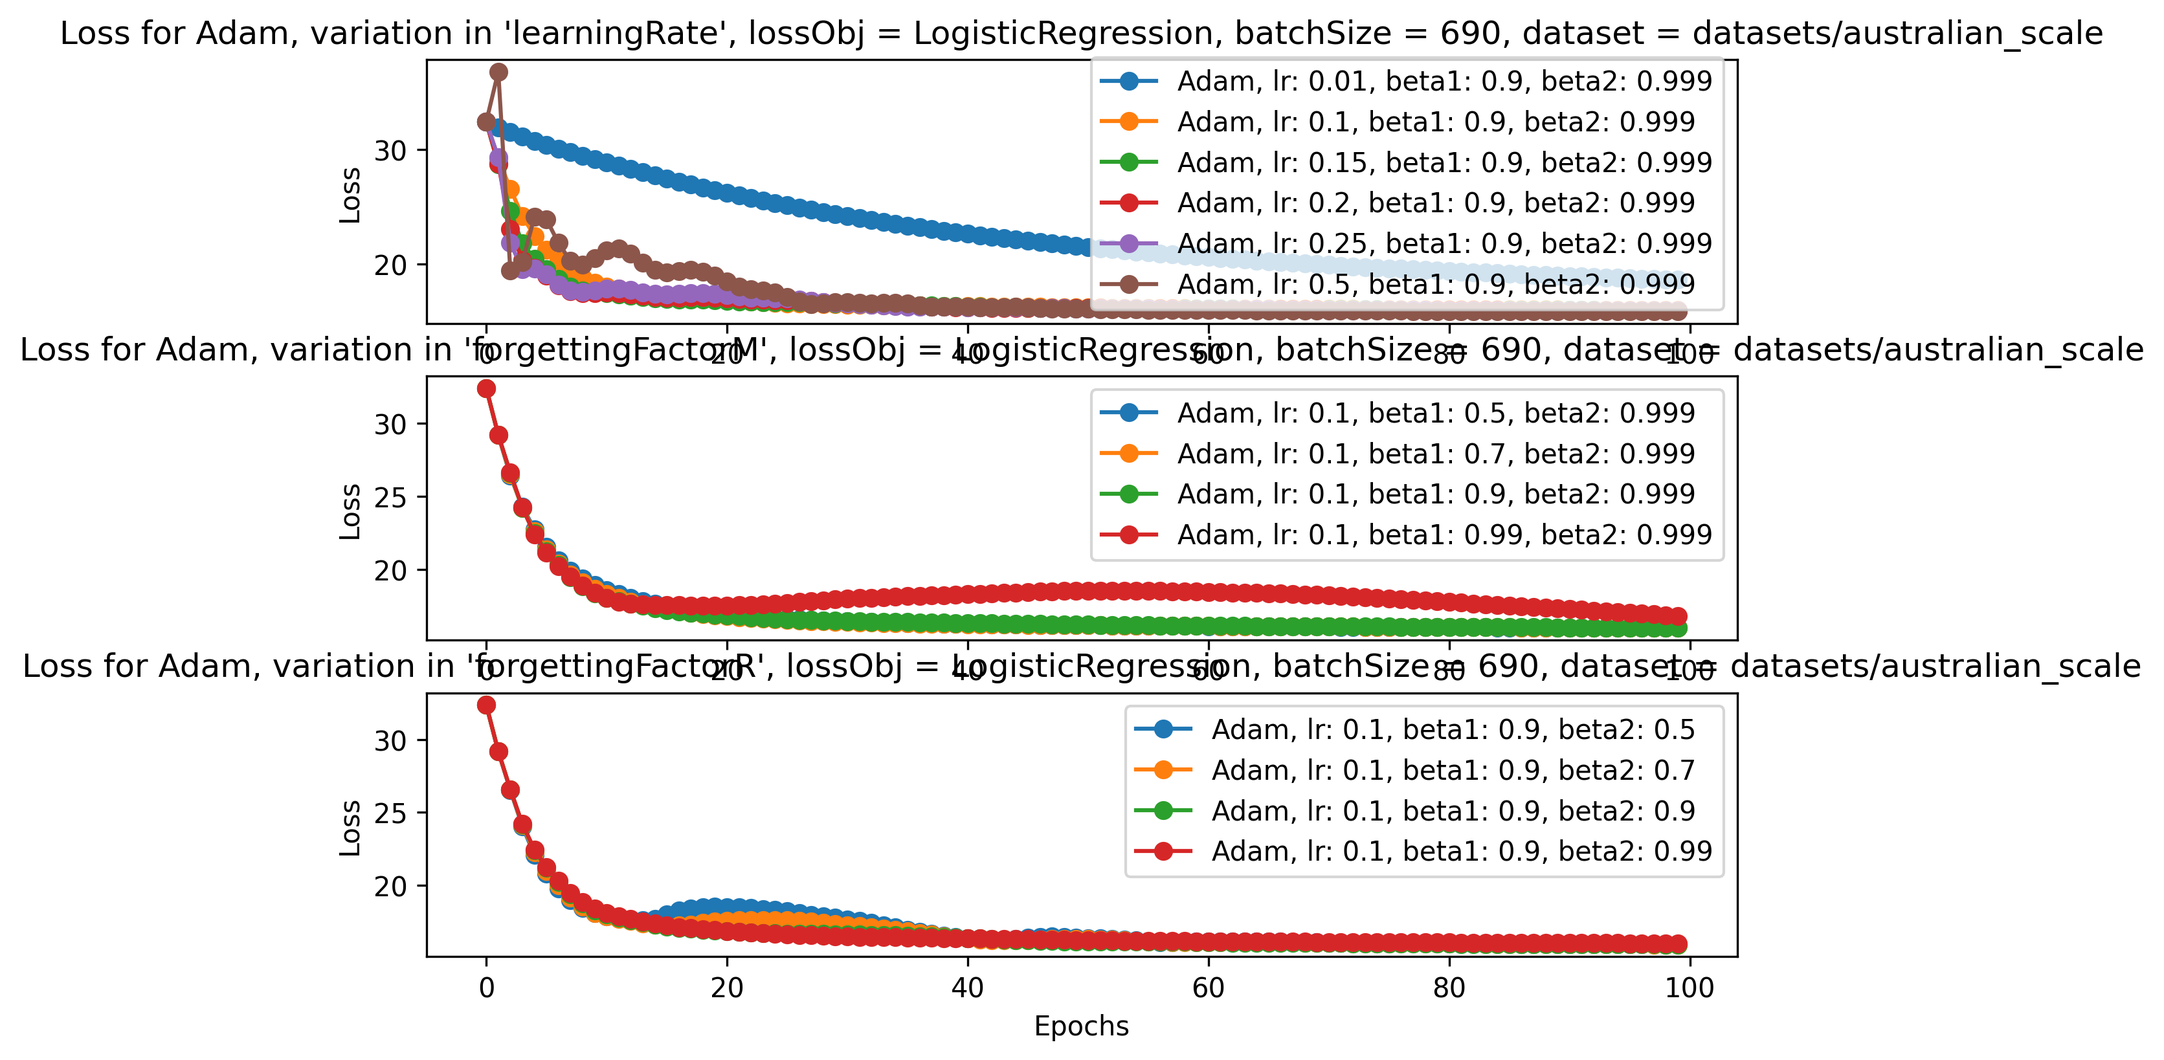
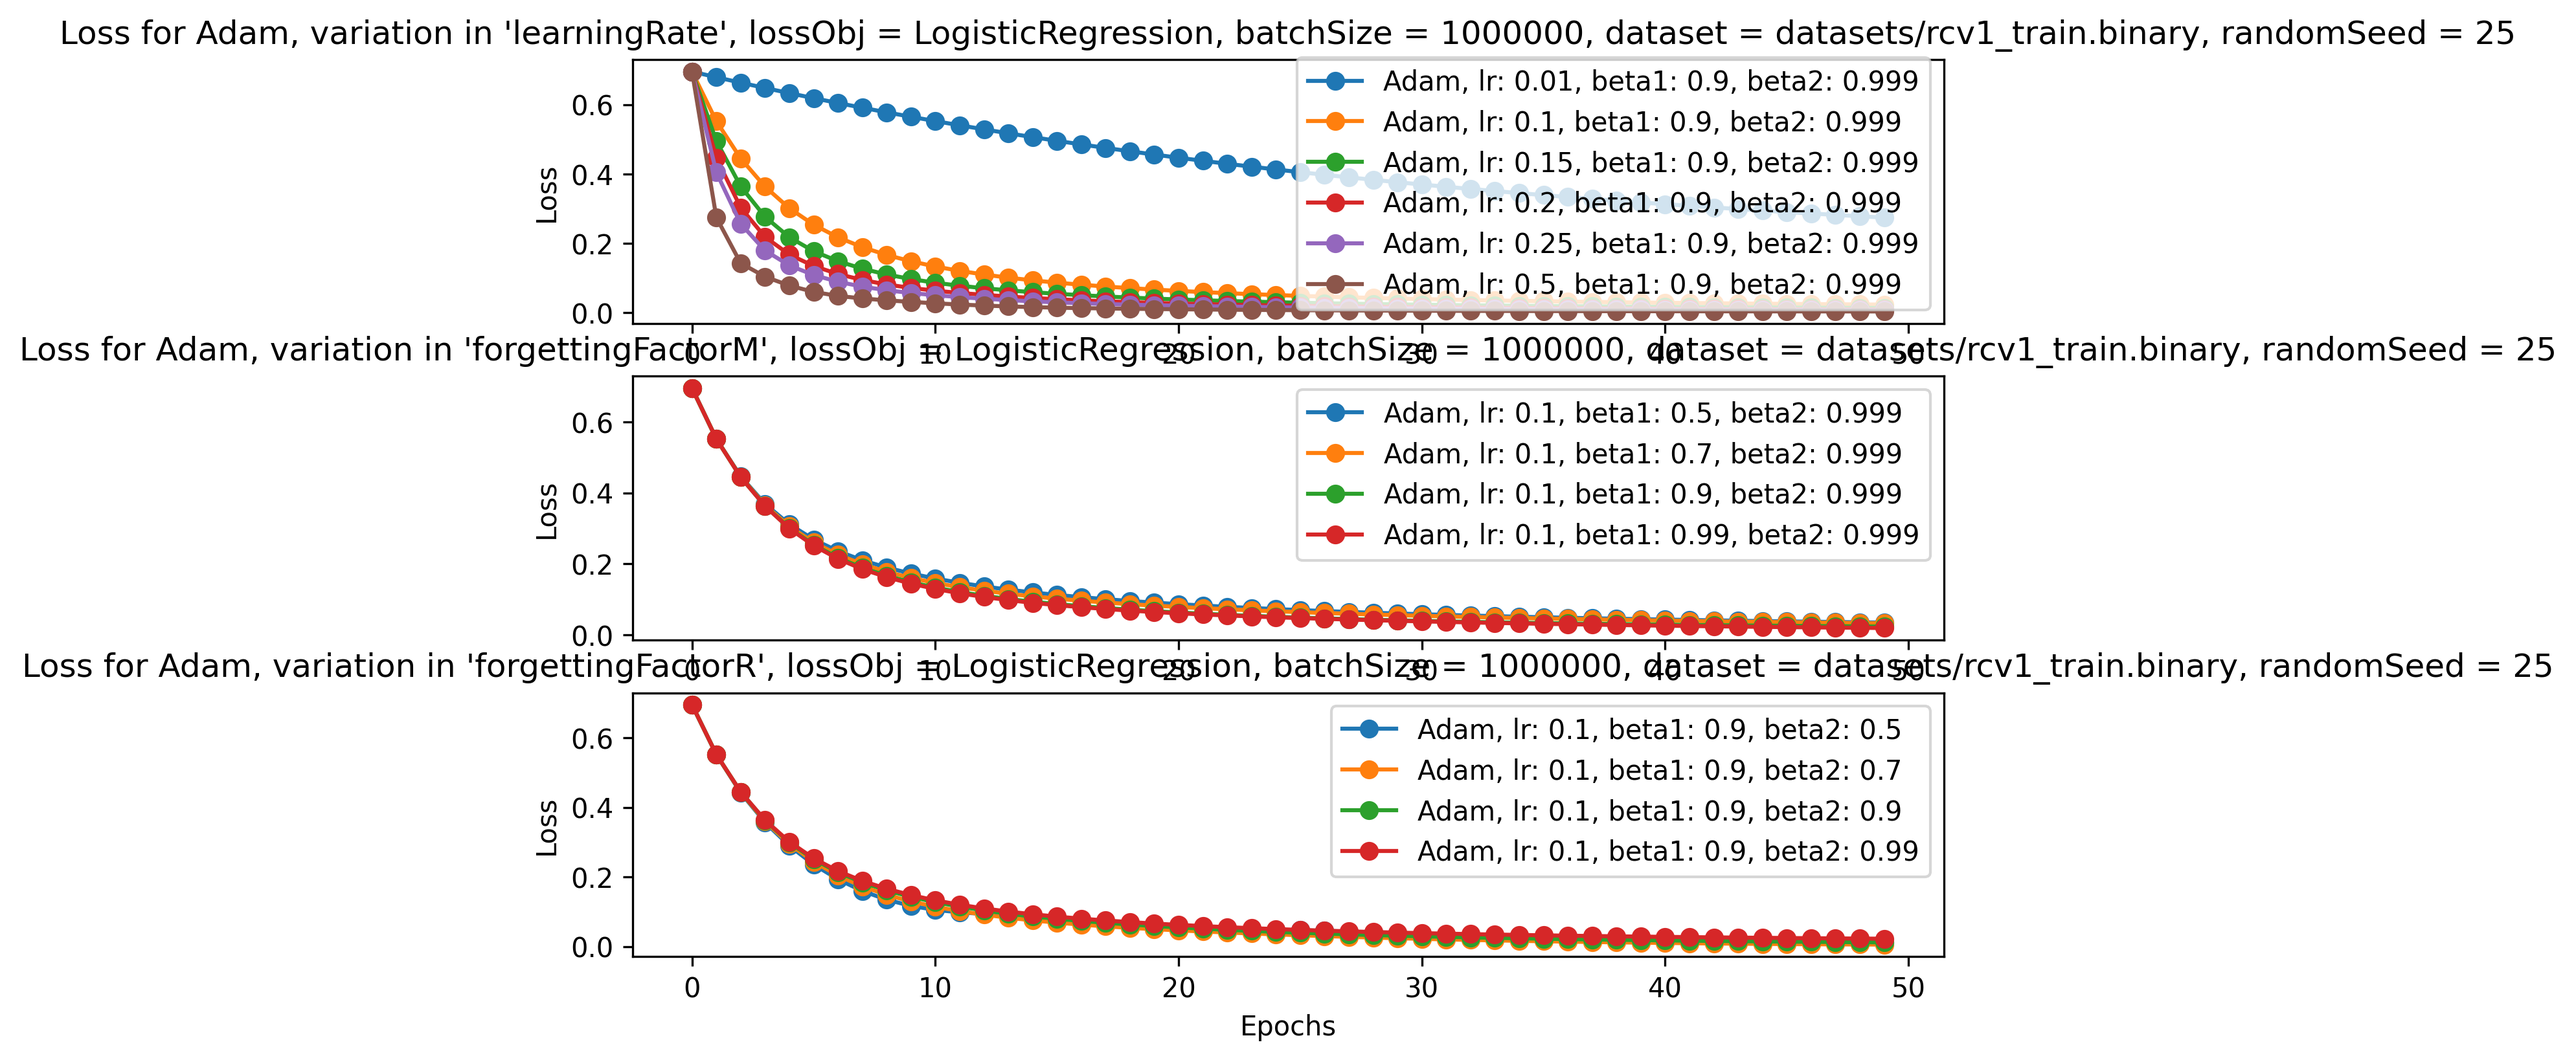
Minor fix in LogReg; Some sensitivity testing; added lossObj check in train functions

diff --git a/testSensitivity_NEW.py b/testSensitivity_NEW.py
@@ -58,15 +58,23 @@ def test_hyperparameter_sensitivity(baseCase: Optimizer, hyperparamConfig = dict
 def main():
     # Setup loss object
     print("Setting up...")
-    datasetFilepath = "datasets/australian_scale"
+    randomSeed = 25
+
+    # Logistic Regression
+    datasetFilepath = "datasets/rcv1_train.binary" # This is also used to show the name in the plot title
     lossObj, initPos = setupProblem("LogReg", 
                                     datasetFilepath = datasetFilepath, 
-                                    randomSeed = 10,
+                                    randomSeed = randomSeed,
                                     initialPosInterval=0.1,
-                                    batchSize = 690,
+                                    batchSize = 1000000,
                                     toDense = False)  # australian_scale, australian, rcv1_train.binary
-    #lossObj, initPos = setupProblem("Rosenbrock", dim=10)
-    #lossObj, initPos = setupProblem("QDF")
+
+    # Rosenbrock
+    # datasetFilepath = "Rosenbrock" # This is also used to show the name in the plot title
+    # lossObj, initPos = setupProblem("Rosenbrock", dim=10, randomSeed = randomSeed)
+
+    #lossObj, initPos = setupProblem("QDF", randomSeed = randomSeed)
+
     print(f"Data loaded and lossObj created")
 
     # Setup base case optimizers
@@ -77,8 +85,8 @@ def main():
 
     # Define an associated hyperparameter config dictionary if desired (missing values will be generated in the test)
     optimizerList = [
-        (optSGD, {"lr": [0.01, 0.1, 0.5, 1, 2, 3, 4, 5]}),
-        (optNesterov, {"lr": [0.001, 0.01, 0.1, 0.5, 0.75, 1, 2, 3], "decayFactor": [0.5, 0.7, 0.9, 0.99]}),
+        (optSGD, {"lr": [0.01, 0.1, 0.5, 1, 2, 3, 4, 5, 1000, 1800]}),
+        (optNesterov, {"lr": [0.001, 0.01, 0.1, 0.5, 0.75, 1, 2, 5], "decayFactor": [0.3, 0.5, 0.7, 0.9, 0.99]}),
         (optMomentum, {"learningRate": [0.001, 0.01, 0.1, 0.5, 1, 2, 3], "decayFactor": [0.5, 0.7, 0.9, 0.99]}),
         (optAdam, {"learningRate": [0.01, 0.1, 0.15, 0.2, 0.25, 0.5], "forgettingFactorM": [0.5, 0.7, 0.9, 0.99], "forgettingFactorR": [0.5, 0.7, 0.9, 0.99]})
         ]
@@ -87,7 +95,7 @@ def main():
     # Run the test for each optimizer
     for opt, hConfig in optimizerList:
         print(f"\n --- Testing {opt.__class__.__name__} --- ")
-        results = test_hyperparameter_sensitivity(opt, hyperparamConfig=hConfig, nrEpochs = 100)
+        results = test_hyperparameter_sensitivity(opt, hyperparamConfig=hConfig, nrEpochs = 50)
 
         # Present
         # TODO: Print quantitative measurements
@@ -101,7 +109,7 @@ def main():
             plt.subplot(3, 1, i+1)
             plt.subplots_adjust(right=0.8)
             for optVariation in optimizerList:
-                plotHistoryGraph(optVariation.lossHistory, title = f"Loss for {optVariation.__class__.__name__}, variation in '{hyperparamName}', lossObj = {optVariation.lossObj.__class__.__name__}, batchSize = {optVariation.lossObj.batchSize}, dataset = {datasetFilepath}", label=f"{optVariation.__class__.__name__}, {optVariation.getHyperparamStr()}", ylabel="Loss")
+                plotHistoryGraph(optVariation.lossHistory, title = f"Loss for {optVariation.__class__.__name__}, variation in '{hyperparamName}', lossObj = {optVariation.lossObj.__class__.__name__}, batchSize = {optVariation.lossObj.batchSize}, dataset = {datasetFilepath}, randomSeed = {randomSeed}", label=f"{optVariation.__class__.__name__}, {optVariation.getHyperparamStr()}", ylabel="Loss")
             i += 1
         plt.savefig("images/"+opt.__class__.__name__+"_sensitivity_test.png", dpi=300, bbox_inches = 'tight')
     plt.show()

diff --git a/testConvergence2.py b/testConvergence2.py
@@ -108,14 +108,14 @@ def main():
     datasetFilepath = "datasets/rcv1_train.binary" # rcv1_train.binary or australian_scale
     print("Set up problem: Begun")
     problemName = "Rosenbrock"
-    lossObj, initPos = setupProblem(problemName=problemName,dim=2, datasetFilepath=datasetFilepath, initialPosInterval=1, randomSeed=10) # QDF, Rosenbrock; datasetFilepath is only needed for LogReg
+    lossObj, initPos = setupProblem(problemName=problemName, dim=10, datasetFilepath=datasetFilepath, initialPosInterval=0.1, randomSeed=10) # QDF, Rosenbrock; datasetFilepath is only needed for LogReg
     print("Set up problem: Finished")
     print("initpos" + str(initPos))
 
     # Setup optimizers
     nrFeatures = lossObj.xDataLength
 
-    optSGD = sgd.SGD(lossObj, initPos, lr=0.001)
+    optSGD = sgd.SGD(lossObj, initPos, lr=0.002)
     optNesterov = nesterov.Nesterov(lossObj, initPos, lr=0.0001, decayFactor=0.9)
     optMomentum = momentum.Momentum(lossObj, initPos, learningRate=0.001, decayFactor=0.5)
     optAdam = adam.Adam(lossObj, initPos, learningRate=0.05, forgettingFactorM=0.9, forgettingFactorR=0.999)
@@ -127,7 +127,7 @@ def main():
     # Plotting & Presenting
     plt.figure(figsize=(12, 8))
     for optimizer in optimizerList:
-        plotHistoryGraph(optimizer.lossHistory, f"Loss history ({lossObj.__class__.__name__})", f"{optimizer.__class__.__name__}, {optimizer.getHyperparamStr()}, finalPos = {optimizer.pos}", "Loss")
+        plotHistoryGraph(optimizer.lossHistory, f"Loss history ({lossObj.__class__.__name__})", f"{optimizer.__class__.__name__}, {optimizer.getHyperparamStr()}", "Loss")
     plt.savefig("images/all_optimizers_convergence_test.png", dpi=300, bbox_inches = 'tight')
     plt.show()
 

diff --git a/utils.py b/utils.py
@@ -78,28 +78,35 @@ def plotHistoryGraph(history, title, label, ylabel, yscale="linear"):
     plt.legend()
     plt.grid()
 
-def train(optimizerList, lossObj=None, nrEpochs=100):
-    for opt in optimizerList:
-        opt.preAllocateHistory(nrEpochs)
+def train(optimizerList, lossObj=None, nrEpochs=100):    
 
     if lossObj is None:
         lossObj = optimizerList[0].lossObj
+    
+    for opt in optimizerList:
+        if opt.lossObj is not lossObj:
+            raise ValueError(
+                f"{opt.__class__.__name__} uses a different lossObj than expected. "
+                "All optimizers must share the same lossObj for fair comparison."
+            )
+        opt.preAllocateHistory(nrEpochs)
+
     # Start testing
     for epoch in range(0, nrEpochs):
         # Shuffle batches
         lossObj.fillRandomBatchList()
+        lossObj.currentBatchIndex = 0
 
         # Save position for each epoch
         for index, optimizer in enumerate(optimizerList):
             optimizer.savePosition(epoch)
 
-        lossObj.currentBatchIndex = 0
         for batch in range(lossObj.numberOfBatches):
             for index, optimizer in enumerate(optimizerList):
                 optimizer.step()
 
             # On to next batch for calculating gradient and so on
-            lossObj.currentBatchIndex = lossObj.currentBatchIndex + 1
+            lossObj.currentBatchIndex += 1
     return optimizerList
 
 

diff --git a/LogisticRegression.py b/LogisticRegression.py
@@ -12,7 +12,7 @@ class LogisticRegression(LossObj):
         # return np.mean(np.logaddexp(0, -z))
         
         # Might be more stable if another log programming function is used.
-        return (1/self.xDataLength) * np.sum(np.log(1 + np.exp(-self.y * (self.X @ weights))))
+        return (1/self.xDataListLength) * np.sum(np.log(1 + np.exp(-self.y * (self.X @ weights))))
 
     def evaluate_gradient(self, weights):
         X, y = self.getCurrentBatch()
